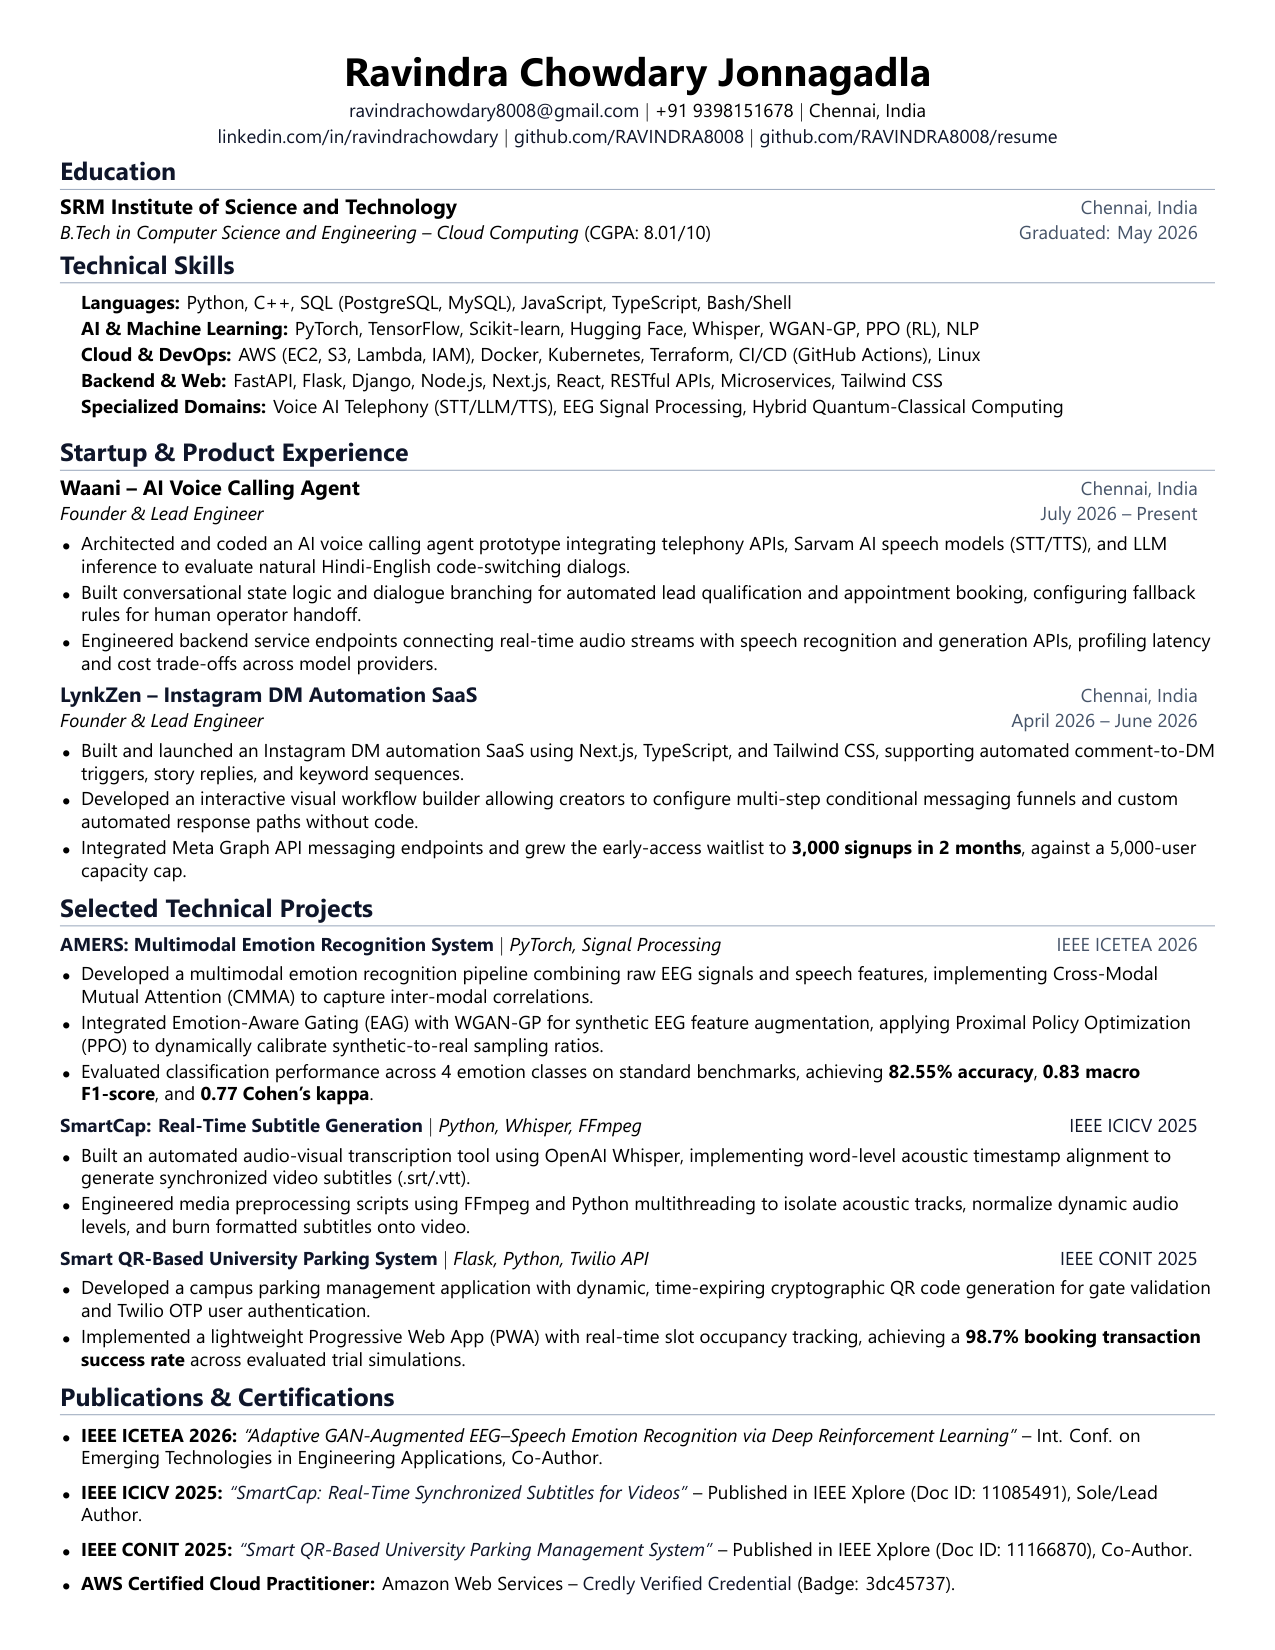
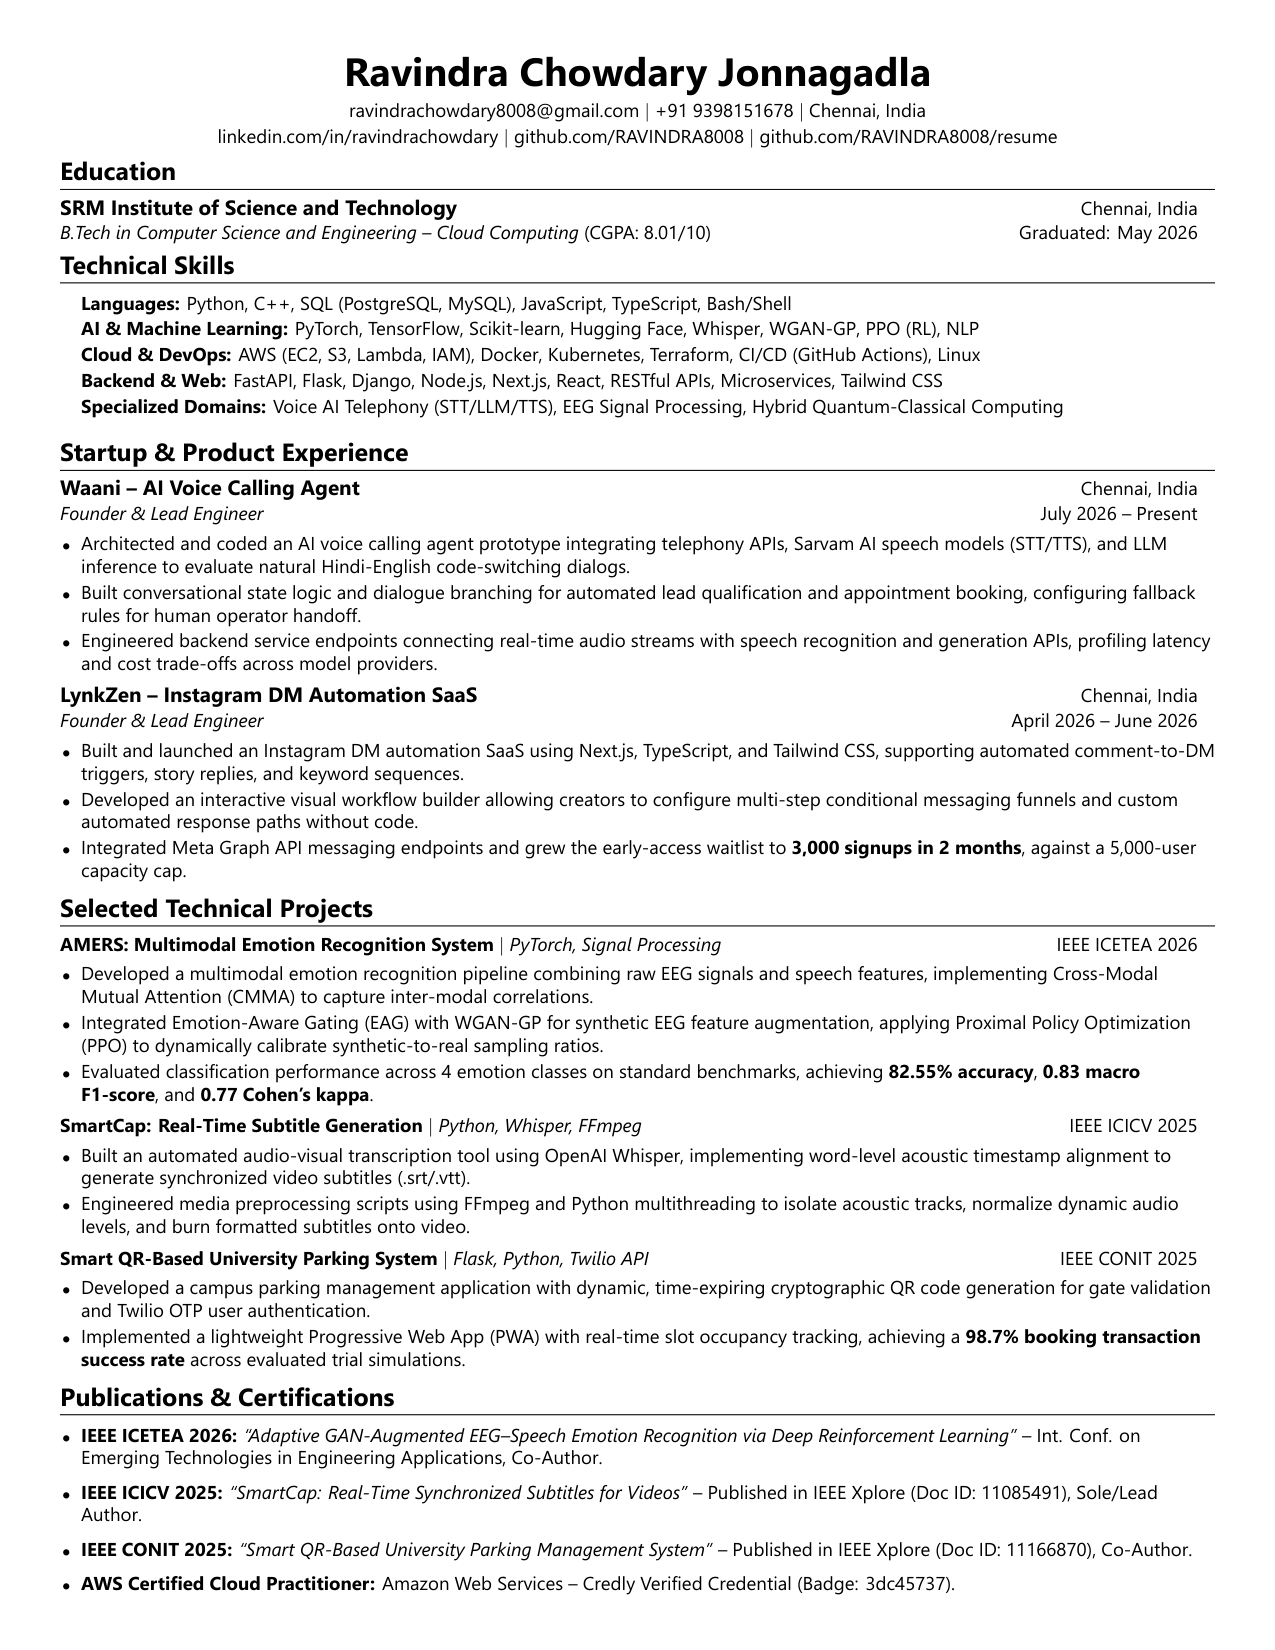
Eradicate all blue-gray slate tints; enforce 100% pure black monochrome

diff --git a/resume.tex b/resume.tex
@@ -27,26 +27,25 @@
 \raggedright
 \setlength{\tabcolsep}{0in}
 
-% Modern Executive Palette (High-Contrast Black & Sleek Slate Divider)
-\definecolor{primary}{RGB}{15, 23, 42}        % Deep Obsidian Slate (softer on eyes than harsh stark black)
-\definecolor{secondary}{RGB}{71, 85, 105}     % Slate for metadata & dates
-\definecolor{linkcolor}{RGB}{15, 23, 42}      % Clean Slate for links (zero loud color)
-\definecolor{rulecolor}{RGB}{148, 163, 184}   % Crisp subtle divider rule
+% 100% Pure Monochrome (Timeless Classic Black on White)
+\definecolor{primary}{RGB}{0, 0, 0}
+\definecolor{secondary}{RGB}{0, 0, 0}
+\definecolor{linkcolor}{RGB}{0, 0, 0}
+\definecolor{rulecolor}{RGB}{0, 0, 0}
 
 \hypersetup{
-    colorlinks=true,
-    linkcolor=linkcolor,
-    urlcolor=linkcolor,
+    colorlinks=false,
+    pdfborder={0 0 0},
     pdfauthor={Ravindra Chowdary Jonnagadla},
     pdftitle={Ravindra Chowdary Jonnagadla - Software Engineer and AI Researcher Resume},
     pdfsubject={Software Engineering, Multimodal AI, Deep Learning, Cloud Systems},
     pdfkeywords={Software Engineer, AI Researcher, Machine Learning, PyTorch, Multimodal, Deep Learning, IEEE, AWS Certified, Reinforcement Learning, PPO, WGAN-GP, Whisper, FastAPI, Next.js, Python, C++, Distributed Systems}
 }
 
-% Section Titles with Sleek Accents
+% Section Titles with Sleek Pure Black Divider
 \titleformat{\section}{
-  \vspace{-7pt}\color{primary}\raggedright\large\bfseries
-}{}{0em}{}[\color{rulecolor}{\titlerule[0.45pt]} \vspace{-4pt}]
+  \vspace{-7pt}\raggedright\large\bfseries
+}{}{0em}{}[{\titlerule[0.5pt]} \vspace{-4pt}]
 
 % Custom commands for bulleted lists and subheadings
 \newcommand{\resumeItem}[1]{
@@ -56,15 +55,15 @@
 \newcommand{\resumeSubheading}[4]{
   \vspace{-2.5pt}\item
     \begin{tabular*}{0.985\textwidth}[t]{l@{\extracolsep{\fill}}r}
-      \textbf{#1} & \small\color{secondary}#2 \\
-      \textit{\small#3} & \small\color{secondary}#4 \\
+      \textbf{#1} & \small#2 \\
+      \textit{\small#3} & \small#4 \\
     \end{tabular*}\vspace{-4pt}
 }
 
 \newcommand{\resumeProjectHeading}[2]{
     \vspace{-2.5pt}\item
     \begin{tabular*}{0.985\textwidth}{l@{\extracolsep{\fill}}r}
-      \small#1 & \small\color{secondary}#2 \\
+      \small#1 & \small#2 \\
     \end{tabular*}\vspace{-4pt}
 }
 
